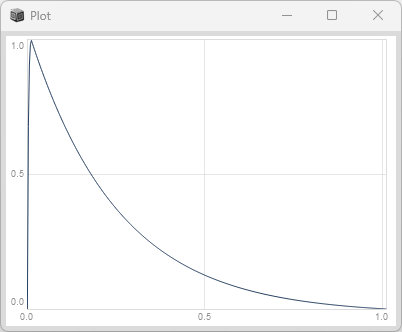
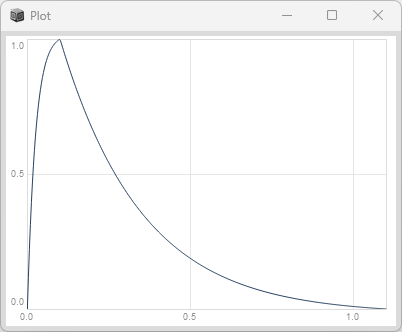
update

diff --git a/env/README.md b/env/README.md
@@ -94,12 +94,14 @@ env.test.plot;
 打楽器風のカーブ形状を生成します。
 
 ```superCollider
-var env = Env.perc(attackTime: 0.01, releaseTime: 1.0, level: 1.0, curve: -4);
+var env = Env.perc(attackTime: 0.1, releaseTime: 1.0, level: 1.0, curve: -4);
 env.test.plot;
 ```
 ![alt text](./env_perc_plot.png)
 
-### sharper attack
+### Env.perc (sharper attack)
+
+アタックを強く
 
 ```superCollider
 var env = Env.perc(attackTime: 0.001, releaseTime: 1.0, level: 1.0, curve: -4);
@@ -109,6 +111,8 @@ env.test.plot;
 
 ### change curvature
 
+減衰を急激に
+
 ```superCollider
 var env = Env.perc(attackTime: 0.001, releaseTime: 1.0, level: 1.0, curve: -8);
 env.test.plot;
@@ -116,6 +120,8 @@ env.test.plot;
 ![alt text](./env_perc_plot_sharperAttackCurveChange.png)
 
 ### reverse envelope
+
+減衰のカーブの向きを変える
 
 ```superCollider
 var env = Env.perc(attackTime: 0.001, releaseTime: 1.0, level: 1.0, curve: 4);
